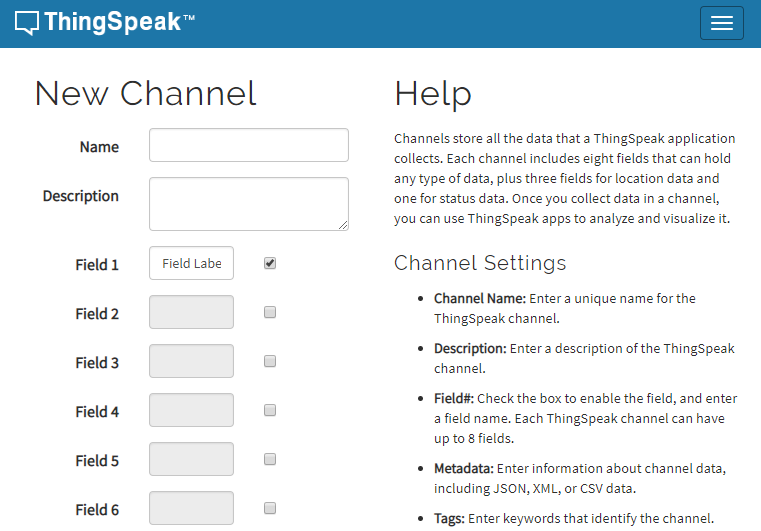
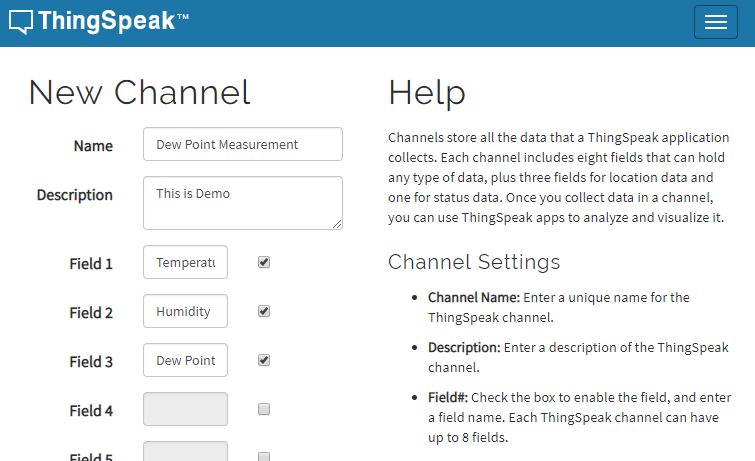
thingspeakの利用更新

diff --git a/docs/guides/ThingSpeakの利用.html b/docs/guides/ThingSpeakの利用.html
@@ -59,14 +59,41 @@
 									</span>
 									<p><br></p>
 									<p>New ChannelのName、Fieldを設定し、ページ下部の<code>Save Channel</code>をクリックしてチャンネルを作ります。</p>
+									<p>試しにMathWorks公式の入門（<a href="https://jp.mathworks.com/help/thingspeak/analyze-your-data.html">参考リンク</a>）を実装してみましょう。以下の通りに入力し、チャンネルを作成します。</p>
 									<span class="image object">
 										<img src="../images/newchannels.png" alt="" />
+									</span>
+									<p>ここで作られたチャンネルの<code>Channel ID</code>とAPI Keysタブから見ることのできる<code>Write API Key</code>を記録しておきます。</p>
+									<p>次に作られたチャンネルのPrivate Viewタブを選択し、緑色の<code>MATLAB Analysis</code>ボタンをクリックします。</p>
+									<p>すると以下の画面が出てくるので<code>Custom</code>にチェックを入れて作成します。</p>
+									<span class="image object">
+										<img src="../images/matlabanalyzetemplate.png" alt="" />
+									</span>
+									<p>作成後の画面に<code>MATLAB Code</code>というフォームがあるはずなので、以下のコードを入力します。
+										このときwriteChIdには先ほど記録した<code>Channel ID</code>を、writeKeyには同じく<code>Write API Key</code>を記述しておきます。</p>
+<pre><code>% Enter your MATLAB Code below
+readChId = 12397;
+writeChId = ZZZZZ;              % Replace with your channel number
+writeKey = 'XXXXXXXXXXXXXXXX';  % Replace with your channel write key
+[temp,time] = thingSpeakRead(readChId,'Fields',4,'NumPoints',20);
+humidity = thingSpeakRead(readChId,'Fields',3,'NumPoints',20);
+tempC = (5/9)*(temp-32);
+b = 17.62;
+c = 243.5;
+gamma = log(humidity/100) + b*tempC./(c+tempC);
+dewPoint = c*gamma./(b-gamma)
+dewPointF = (dewPoint*1.8) + 32;
+thingSpeakWrite(writeChId,[temp,humidity,dewPointF],'Fields',[1,2,3],...
+'TimeStamps',time,'Writekey',writeKey);</pre></code>
+
+									<p><code>Save and Run</code>をクリックした後、先ほど作成したチャンネルのページを開きます。すると、グラフが表示されます。</p>
+									<span class="image object">
+										<img src="../images/thingspeakgraph.png" alt="" />
 									</span>
 
 									<hr class="major" />
 
-									<h2>例を試す</h2>
-									<p>ThingSpeakの例を試してみたい場合は、以下のリンクを参考にしてみてください。
+									<h2>参考リンク</h2><p>
 								<br><a href="https://jp.mathworks.com/help/thingspeak/analyze-your-data.html">データの解析 - MATLAB & Simulink - MathWorks 日本</a></p>
 									<p> </p>
 								</section>
